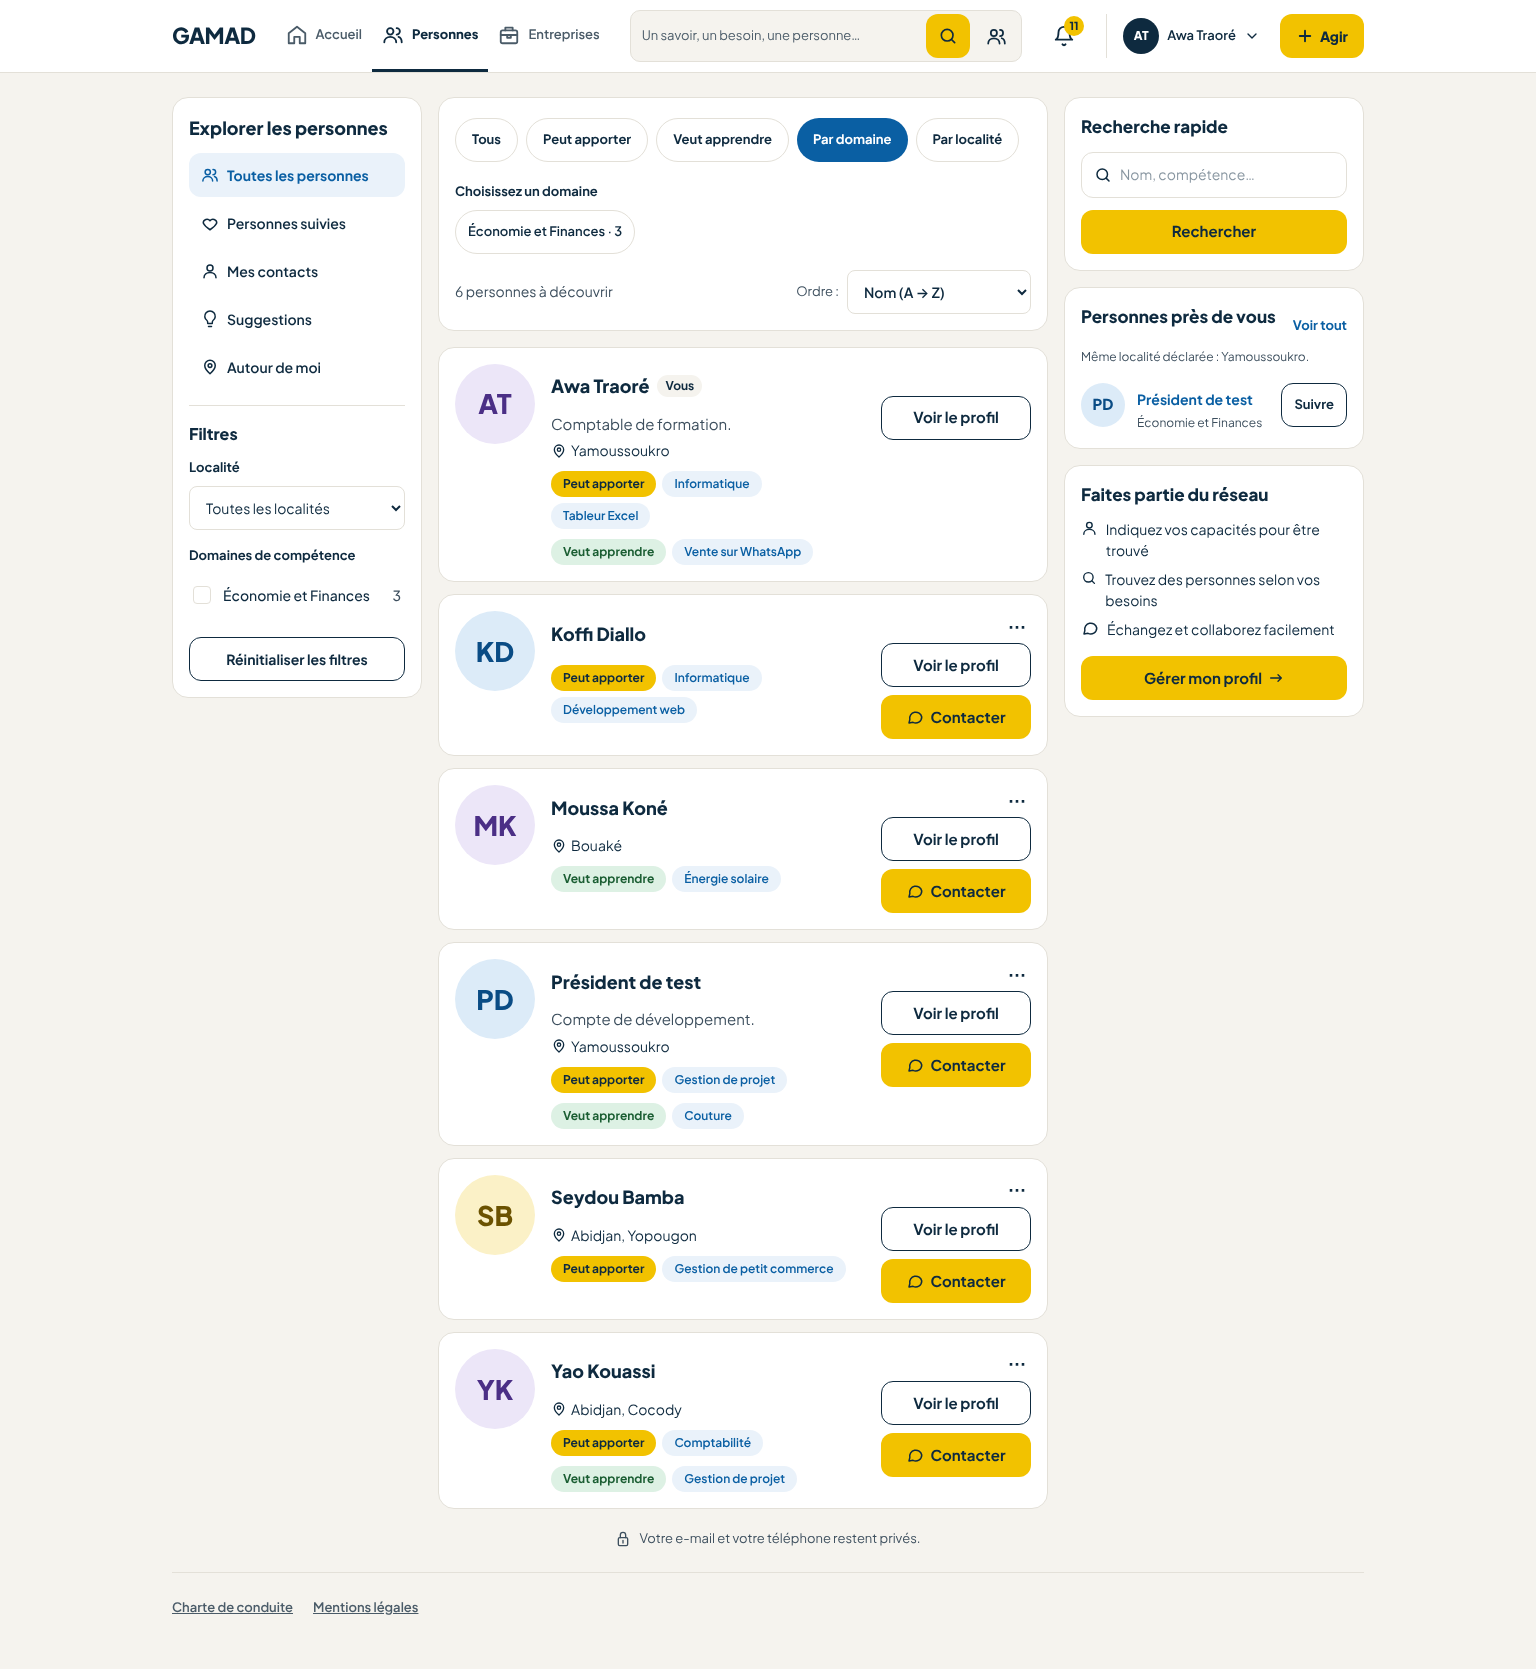
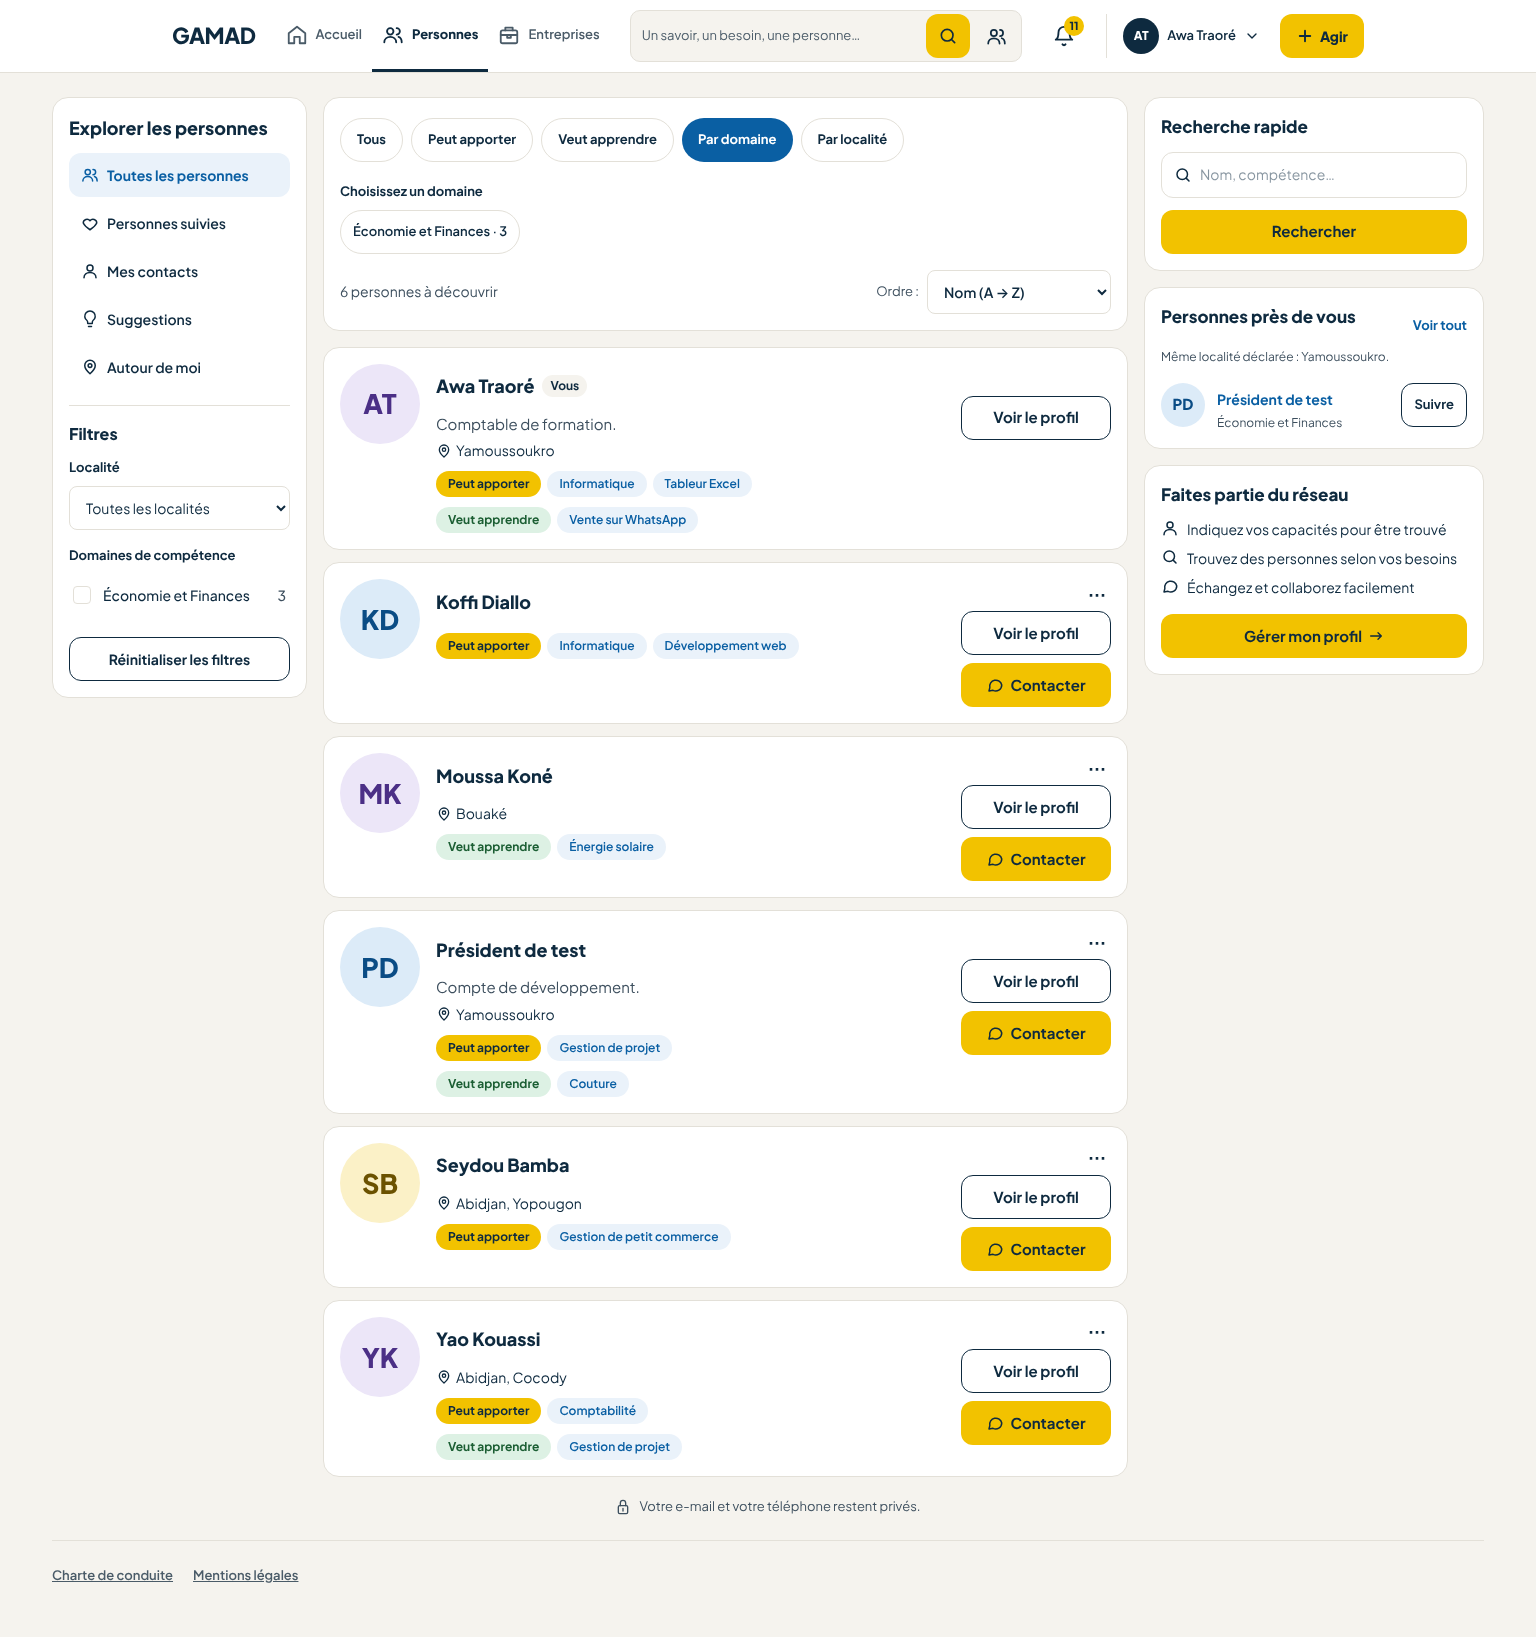
GAMAD — Page Personnes élargie à 1480 px (#62)
Claude-Session: https://claude.ai/code/session_01HadbpwLj9VLL4L1zDggZLr

diff --git a/tests/Feature/MiseEnPageTest.php b/tests/Feature/MiseEnPageTest.php
@@ -31,7 +31,8 @@ it('donne aux pages de consultation la largeur du Fil', function () {
     foreach ($pages as $nom => $url) {
         $classes = classes_du_contenu($this->actingAs($this->yao)->get($url)->assertOk()->getContent());
 
-        $this->assertStringContainsString('max-w-[1240px]', $classes, $nom);
+        // Décision du Président : seule la page Personnes est élargie (1480 px), pour ses trois colonnes.
+        $this->assertStringContainsString($nom === 'Carrefour Personnes' ? 'max-w-[1480px]' : 'max-w-[1240px]', $classes, $nom);
         $this->assertStringNotContainsString('max-w-[920px]', $classes, $nom);
         $this->assertStringNotContainsString('max-w-[760px]', $classes, $nom);
     }
@@ -73,7 +74,7 @@ it('range les cartes des carrefours en colonnes sur ordinateur, et en une seule 
     }
 
     expect($this->actingAs($personne)->get(route('personnes.index'))->assertOk()->getContent())
-        ->toContain('xl:grid-cols-[250px_minmax(0,1fr)_300px]')
+        ->toContain('xl:grid-cols-[255px_minmax(0,1fr)_340px]')
         ->toContain('person-discovery-card');
 });
 

diff --git a/resources/views/components/layouts/app.blade.php b/resources/views/components/layouts/app.blade.php
@@ -1,4 +1,4 @@
-@props(['title' => null, 'wide' => true, 'narrow' => false])
+@props(['title' => null, 'wide' => true, 'narrow' => false, 'extraWide' => false])
 
 @php
     $enabled = fn (array $items) => array_values(array_filter($items, fn ($item) => $item['enabled'] ?? false));
@@ -102,7 +102,7 @@
         </div>
     </header>
 
-    <main @class(['mx-auto w-full flex-1 px-4 pt-4 md:px-6 lg:pb-10 lg:pt-6', 'max-w-[920px]' => $narrow, 'max-w-[1240px]' => ! $narrow, 'pb-[104px]' => auth()->check(), 'pb-10' => ! auth()->check()])>
+    <main @class(['mx-auto w-full flex-1 px-4 pt-4 md:px-6 lg:pb-10 lg:pt-6', 'max-w-[920px]' => $narrow, 'max-w-[1240px]' => ! $narrow && ! $extraWide, 'max-w-[1480px]' => $extraWide, 'pb-[104px]' => auth()->check(), 'pb-10' => ! auth()->check()])>
         {{ $slot }}
 
         <div class="mt-6">@include('partials.legal-links')</div>

diff --git a/resources/views/livewire/carrefour-personnes.blade.php b/resources/views/livewire/carrefour-personnes.blade.php
@@ -10,7 +10,7 @@
 @endphp
 <div class="person-directory min-w-0" x-data="{ filters: false }">
     @if (\App\Support\Experience::initial())<a href="{{ auth()->check() ? route('fil') : route('home') }}" class="mb-3 inline-flex min-h-11 items-center gap-2 text-[14px] font-semibold lg:hidden">Retour à l’accueil</a>@endif
-    <div class="grid min-w-0 items-start gap-4 lg:grid-cols-[240px_minmax(0,1fr)] xl:grid-cols-[250px_minmax(0,1fr)_300px]">
+    <div class="grid min-w-0 items-start gap-4 lg:grid-cols-[240px_minmax(0,1fr)] xl:grid-cols-[255px_minmax(0,1fr)_340px]">
         <aside aria-label="Navigation et filtres des personnes" class="min-w-0 rounded-card border border-line bg-card p-4">
             <div class="flex items-center justify-between gap-2">
                 <h2 class="text-[18px] font-extrabold">Explorer les personnes</h2>

diff --git a/tests/Feature/Personnes/PersonnesMaquetteTest.php b/tests/Feature/Personnes/PersonnesMaquetteTest.php
@@ -183,3 +183,11 @@ it('affiche la présentation courte réelle de la personne, sans texte inventé'
     page()->assertSeeText('Comptable et formatrice');
     page()->assertDontSeeText('Disponible')->assertDontSeeText('En ligne');
 });
+
+it('élargit seulement la page Personnes à 1480 px ; l’en-tête et les autres pages gardent 1240 px', function () {
+    $personnes = $this->actingAs($this->moi)->get(route('personnes.index'))->assertOk()->getContent();
+    $fil = $this->actingAs($this->moi)->get(route('fil'))->assertOk()->getContent();
+
+    expect($personnes)->toContain('max-w-[1480px]')->toContain('max-w-[1240px]')
+        ->and($fil)->not->toContain('max-w-[1480px]');
+});

diff --git a/app/Livewire/CarrefourPersonnes.php b/app/Livewire/CarrefourPersonnes.php
@@ -29,7 +29,7 @@ use Livewire\WithPagination;
  * « suivies », « contacts », « suggestions » et « autour de moi » ne reposent que sur des données déclarées par la
  * personne et ses relations ; aucune préférence privée de matching n'est lue ici.
  */
-#[Layout('components.layouts.app')]
+#[Layout('components.layouts.app', ['extraWide' => true])]
 #[Title('Personnes')]
 class CarrefourPersonnes extends Component
 {
